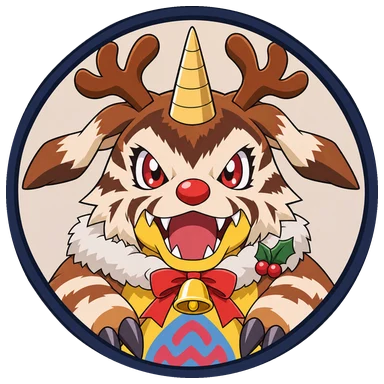
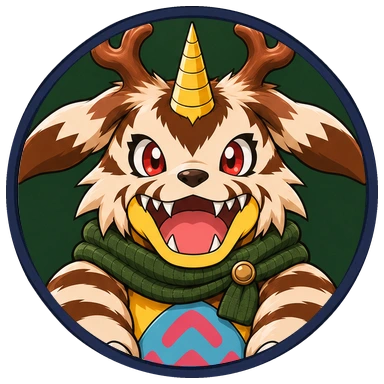
Publica los iconos Reno con las astas integradas

diff --git a/index.html b/index.html
@@ -14869,7 +14869,7 @@ const PLAYER_ICONS = [
   {id:'leomon', name:'Leomon'}, {id:'hagurumon', name:'Hagurumon'}, {id:'frigimon', name:'Frigimon'}, {id:'wizardmon', name:'Wizardmon'}
 ].map(x => ({...x, src: playerIconSrc(x.id)}));
 // Iconos de skin: se desbloquean al tener la skin en alguna etapa (los de skins ocultas solo se ven al tenerlas)
-const SKIN_ICON_ART = {galactico:'galaxia', lcd:'lcd-v2', variocolor:'variocolor-v2'};
+const SKIN_ICON_ART = {galactico:'galaxia', lcd:'lcd-v2', variocolor:'variocolor-v2', reno:'astas-integradas'};
 const SKIN_ICONS = [
   {key:'biyomon', skin:'galactico'}, {key:'gomamon', skin:'galactico'},
   {key:'palmon', skin:'galactico'}, {key:'tentomon', skin:'galactico'},
